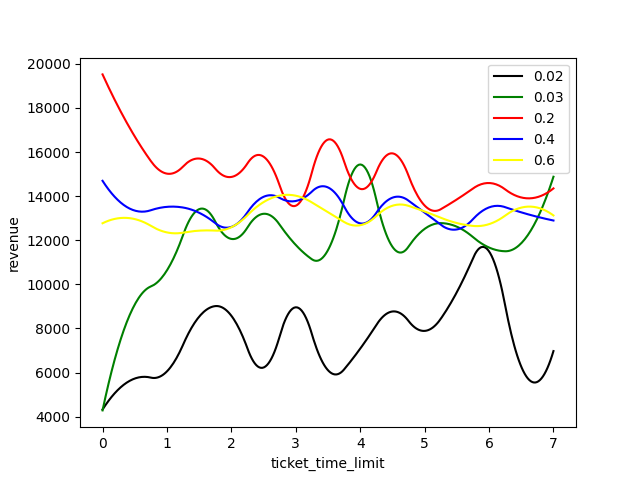
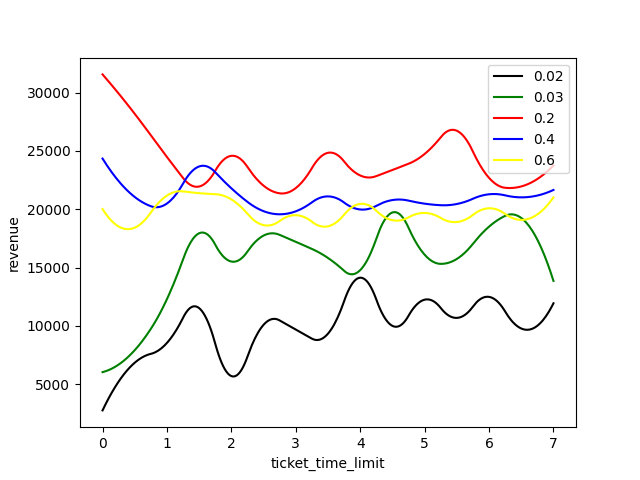
Support 3 classes of seats, ready for change of flights network simulation

diff --git a/flight.py b/flight.py
@@ -4,14 +4,17 @@ import simpy
 
 
 class Flight:
-    def __init__(self, env, flight_id, log):
+    def __init__(self, env, flight_id, log, total_seats, ratio_of_seat_classes, norm_prices):
         self.env = env
         self.id = flight_id
-        self.bookings = 0
+        self.total_seats = total_seats
+        self.ratio_of_seat_classes = ratio_of_seat_classes
+        self.norm_prices = norm_prices
+
         self.revenue = 0
-        self.num_seats = 100  # TODO: the detailed info of each flight could be loaded from an input file
-        self.norm_price = 100
-        self.ticket_price = self.norm_price
+        self.bookings = [0 for _ in range(len(self.ratio_of_seat_classes))]
+        self.num_seats = [self.total_seats * ratio for ratio in self.ratio_of_seat_classes]  # TODO: the detailed info of each flight could be loaded from an input file
+        self.ticket_prices = self.norm_prices
         self.log = log
         
         self.revenue_confirmed = 0
@@ -20,47 +23,66 @@ class Flight:
 
     # Define the revenue management function for each flight
     def revenue_management(self):
-        new_price = self.norm_price
+        new_price = self.norm_prices.copy()
         price_increase_rate = 0
         # resale_rate = Param.resale_prob
         while True:
             yield self.env.timeout(Param.freq_set_price)       # the time frequency for updating ticket price
             # if resale_rate > 0.05:
             #     resale_rate -= 0.01
-            if self.bookings < self.num_seats:
-                # increase the price when days are going on
-                if self.env.now % 7 == 0:
-                    price_increase_rate += 0.05
-                new_price = self.norm_price * (1 + price_increase_rate)
+            if self.env.now % 7 == 0:
+                price_increase_rate += 0.05
+            for i in range(len(self.ratio_of_seat_classes)):
+                if self.bookings[i] < self.num_seats[i]:
+                    # increase the price when days are going on
+                    new_price[i] = self.norm_prices[i] * (1 + price_increase_rate) 
 
-                # revenue_expectation = self.revenue_confirmed + self.revenue_hold_on * Param.confirm_prob + self.revenue_hold_on * Param.cancel_prob * resale_rate + self.revenue_hold_on * (1 - Param.confirm_prob - Param.cancel_prob) * (resale_rate - 0.01)
-                # if revenue_expectation > self.revenue:
-                #     self.revenue = revenue_expectation 
-            else:
-                new_price = 0  # no more bookings allowed
+                    # revenue_expectation = self.revenue_confirmed + self.revenue_hold_on * Param.confirm_prob + self.revenue_hold_on * Param.cancel_prob * resale_rate + self.revenue_hold_on * (1 - Param.confirm_prob - Param.cancel_prob) * (resale_rate - 0.01)
+                    # if revenue_expectation > self.revenue:
+                    #     self.revenue = revenue_expectation 
+                else:
+                    new_price[i] = 0  # no more bookings allowed
             # update the ticket price
-            self.ticket_price = new_price
+            self.ticket_prices = new_price
             if self.log == "DEBUG":
-                print(f"Day {self.env.now} {self.id} ticket price: {self.ticket_price:.2f}, "
-                    f"remaining {self.num_seats - self.bookings} seats.")
+                format_ticket_prices = [f"{price:.2f}" for price in self.ticket_prices]
+                remaining_seats = [self.num_seats[i] - self.bookings[i] for i in range(len(self.ratio_of_seat_classes))]
+                print(f"Day {self.env.now} {self.id} ticket prices: {format_ticket_prices}, "
+                    f"remaining {remaining_seats} seats.")
 
     # Define the function to simulate passenger bookings
     def passenger_arrivals(self):
         while True:
             yield self.env.timeout(int(np.random.exponential(scale=Param.pax_inter_time)))
-            booking_price = self.ticket_price
             if self.log == "DEBUG":
                 print(f"Passenger of flight {self.id} arrived at day {self.env.now} ")
-            if self.bookings < self.num_seats:
-                self.bookings += 1
-                self.revenue_hold_on += booking_price
+
+            base_seat_choice = np.random.random()
+            if base_seat_choice < Param.preference_of_seat_classes[0]:
+                choice = 0
+            elif (base_seat_choice >= Param.preference_of_seat_classes[0] 
+                  and base_seat_choice < Param.preference_of_seat_classes[0] + Param.preference_of_seat_classes[1]):
+                choice = 1
+            else:
+                choice = 2
+            if self.log == "DEBUG":
+                print(f"Passenger of flight {self.id} chose class {choice} seat.")
+
+            while choice < len(self.ratio_of_seat_classes) and self.bookings[choice] >= self.num_seats[choice]:
+                choice += 1
+                if self.log == "DEBUG" and choice < len(self.ratio_of_seat_classes):
+                    print(f"Passenger of flight {self.id} arrived at day {self.env.now} upgraded the seat class")
+            if choice < len(self.ratio_of_seat_classes):
+                self.bookings[choice] += 1
+                self.revenue_hold_on += self.ticket_prices[choice]
                 if self.log == "DEBUG":
+                    remaining_seats = [self.num_seats[i] - self.bookings[i] for i in range(len(self.ratio_of_seat_classes))]
                     print(f"Passenger of flight {self.id} "
                         f"arrived at day {self.env.now} "
-                        f"purchased a ticket at price {self.ticket_price:.2f}, "
-                        f"remaining {self.num_seats - self.bookings} seats.")
+                        f"purchased a ticket at price {self.ticket_prices[choice]:.2f}, "
+                        f"remaining {remaining_seats} seats.")
                 # Start TTL timing
-                ttl = self.env.process(self.ticket_time_limit(booking_price))
+                ttl = self.env.process(self.ticket_time_limit(self.ticket_prices[choice], choice))
                 # Allow decision
                 self.env.process(self.decide_booking(ttl))
             else:
@@ -68,26 +90,28 @@ class Flight:
                     print(f"Passenger of flight {self.id} arrived at day {self.env.now} finds no available seats.")
 
     # Handle ttl
-    def ticket_time_limit(self, booking_price):
+    def ticket_time_limit(self, booking_price, choice):
         try:
             yield self.env.timeout(Param.ticket_time_limit)
-            self.bookings -= 1
+            self.bookings[choice] -= 1
             self.revenue_hold_on -= booking_price
             if self.log == "DEBUG":
+                remaining_seats = [self.num_seats[i] - self.bookings[i] for i in range(len(self.ratio_of_seat_classes))]
                 print(f"Passenger of flight {self.id} "
                     f"automatically cancelled at day {self.env.now} "
-                    f"return a ticket at price {self.ticket_price:.2f}, "
-                    f"remaining {self.num_seats - self.bookings} seats.")
+                    f"return a ticket at price {booking_price:.2f}, "
+                    f"remaining {remaining_seats} seats.")
         except simpy.Interrupt as interrupt:
             cause = interrupt.cause
             if cause == "cancel":
-                self.bookings -= 1
+                self.bookings[choice] -= 1
                 self.revenue_hold_on -= booking_price
                 if self.log == "DEBUG":
+                    remaining_seats = [self.num_seats[i] - self.bookings[i] for i in range(len(self.ratio_of_seat_classes))]
                     print(f"Passenger of flight {self.id} "
                         f"cancelled at day {self.env.now} "
-                        f"return a ticket at price {self.ticket_price:.2f}, "
-                        f"remaining {self.num_seats - self.bookings} seats.")
+                        f"return a ticket at price {booking_price:.2f}, "
+                        f"remaining {remaining_seats} seats.")
             elif cause == "confirm":
                 self.revenue_hold_on -= booking_price
                 self.revenue_confirmed += booking_price

diff --git a/simulator.py b/simulator.py
@@ -3,13 +3,16 @@ from flight import Flight
 
 
 class AirlineRmSimulation:
-    def __init__(self, routes, log):
+    def __init__(self, routes, log, seats_info):
         self.env = simpy.Environment()
         self.routes = routes
         self.flights = {}
         self.log = log
-        for origin, destination in routes:
-            self.flights[(origin, destination)] = Flight(self.env, flight_id=(origin, destination), log=self.log)
+        assert(len(routes) == len(seats_info), "routes must match their seats information")
+        for i in range(len(routes)):
+            self.flights[routes[i]] = Flight(self.env, flight_id=routes[i], log=self.log, 
+                                                         total_seats=seats_info[i]["total_seats"], ratio_of_seat_classes=seats_info[i]["ratio_of_seat_classes"], 
+                                                         norm_prices=seats_info[i]["norm_prices"])
 
     def run(self, num_days):
         for flight in self.flights.values():

diff --git a/plot.py b/plot.py
@@ -5,7 +5,7 @@ from simulator import  AirlineRmSimulation as Sim
 from scipy.interpolate import make_interp_spline
 
 class AirlineRmPlotting:
-    def plot_ttl_revenue(routes):
+    def plot_ttl_revenue(routes, seats_info):
         confirm_prob_range = [0.02, 0.03, 0.2, 0.4, 0.6]
         confirm_prob_color = ["black", "green", "red", "blue", "yellow"]
         # Simulate with different confirm prob
@@ -15,7 +15,7 @@ class AirlineRmPlotting:
             # Simulate with different ttl
             for i in np.arange(0, 7.5, 0.5):
                 Param.ticket_time_limit = i
-                simulation = Sim(routes, "INFO")
+                simulation = Sim(routes, "INFO", seats_info)
                 simulation.run(num_days=Param.num_days)
                 revenue = 0
                 for f in simulation.flights.values():

diff --git a/main.py b/main.py
@@ -1,4 +1,5 @@
 from simulator import AirlineRmSimulation
+from flight import Flight
 from parameters import Parameter as Param
 from plot import AirlineRmPlotting
 
@@ -6,7 +7,10 @@ from plot import AirlineRmPlotting
 def main():
     # routes = [('NYC', 'LAX'), ('LAX', 'NYC'), ('NYC', 'MIA'), ('MIA', 'NYC')]
     routes = [('NYC', 'LAX')]  # for a single flight
-    AirlineRmPlotting.plot_ttl_revenue(routes)
+    seats_info = [{"total_seats": 100, 
+                "ratio_of_seat_classes": [0.6, 0.3, 0.1],
+                "norm_prices": [100, 200, 300]}]
+    AirlineRmPlotting.plot_ttl_revenue(routes, seats_info)
 
 if __name__ == "__main__":
     main()

diff --git a/parameters.py b/parameters.py
@@ -8,4 +8,8 @@ class Parameter:
     confirm_prob = 0.5
     cancel_prob = 0.3    
 
+    num_total_seats = 100
+    preference_of_seat_classes = [0.8, 0.15, 0.15]
+
+
     # resale_prob = 0.9
